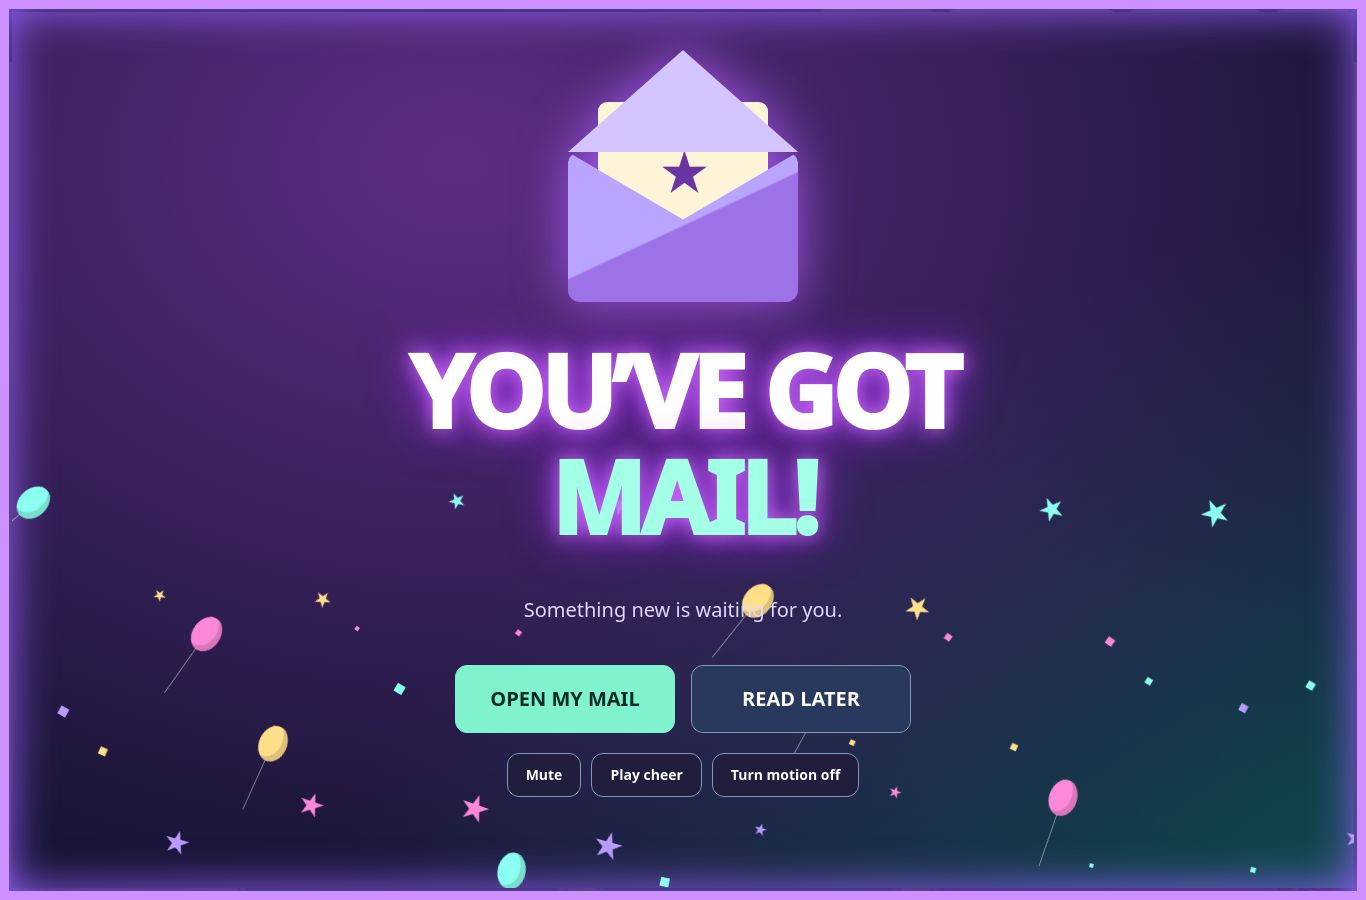
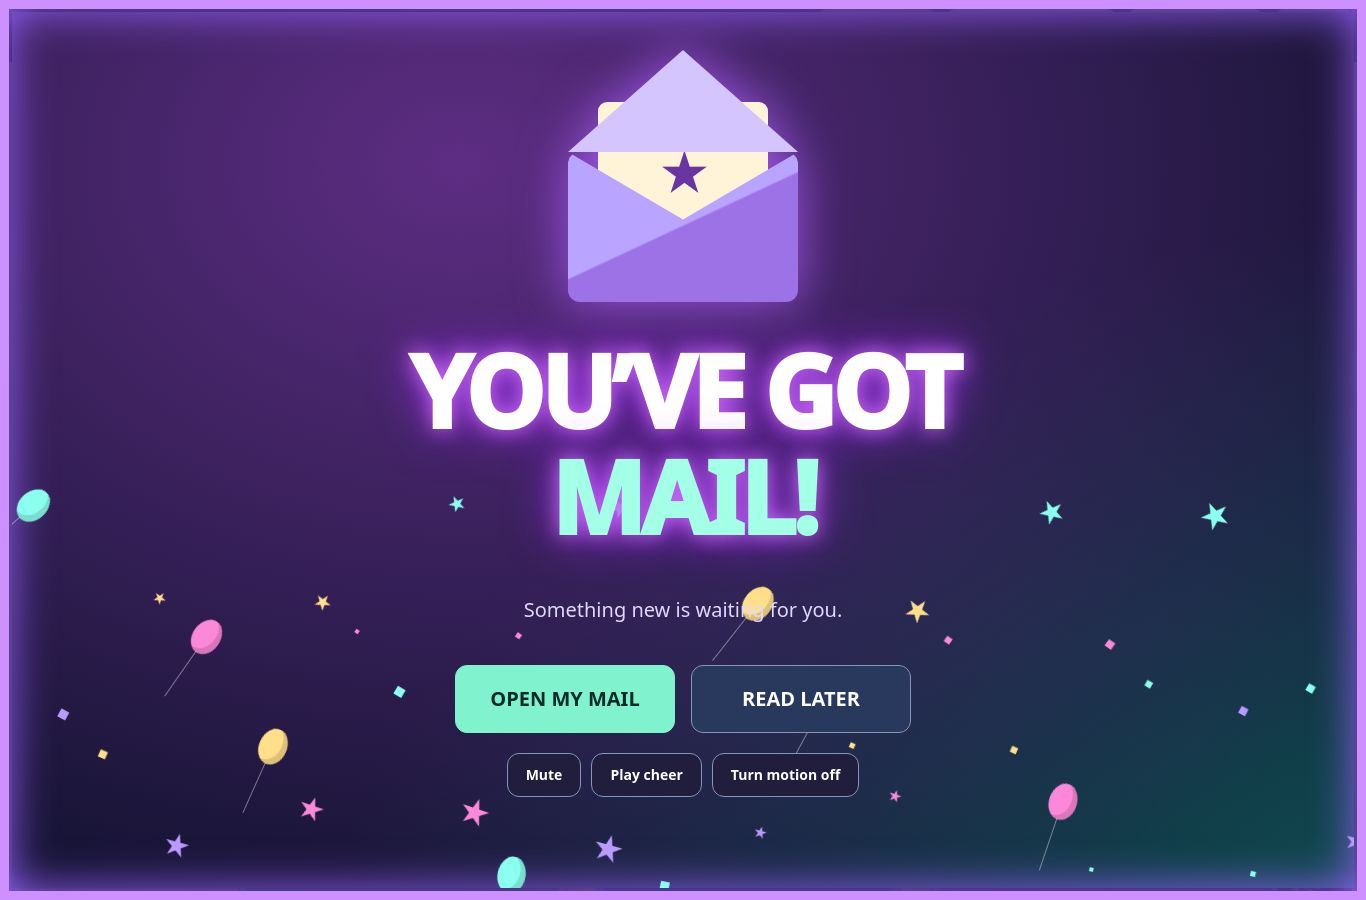
Preserve Read Later acknowledgement through connection failures

diff --git a/assets/employment/client.js b/assets/employment/client.js
@@ -4,7 +4,7 @@ const ROOT=new URL('../../',document.currentScript.src),API='https://tyzpophjopt
 const C=TTEmploymentCore,Q=TTInterviewQuestions,KEY='ttPrivateEmploymentSession',esc=s=>String(s??'').replace(/[&<>"']/g,c=>({'&':'&amp;','<':'&lt;','>':'&gt;','"':'&quot;',"'":'&#39;'}[c]));
 const $=id=>document.getElementById(id),name=()=>sessionStorage.getItem('ttCurrent')||'',canon=()=>C.canonical(name());
 const load=(store,key,fallback)=>{try{return JSON.parse(store.getItem(key)||'null')||fallback}catch{return fallback}};
-let teacherSyncing=false,teacherSent=new Set();
+let teacherSyncing=false,teacherSent=new Set(),ackWorking=false;
 let session=load(sessionStorage,KEY,null),mail=[],modal=null,party=null,working=false,scanning=false,seen=new Set(),registered=new Set(),identity=name(),editor=null,dirty=false,teacherData=null,audio=null,available=null,generation=0;
 let muted=localStorage.getItem('ttMailMuted')==='true',still=localStorage.getItem('ttMailStill')==='true';
 const auth=()=>load(sessionStorage,'ttMonitorPinAuth',null)?.token;
@@ -33,9 +33,19 @@ async function connect(){
  $('ttMailConnect').onclick=async()=>{const n=name();$('ttMailConnect').disabled=true;try{const d=await call('pair',{student:C.canonical(n)});if(n!==name())return;session={name:n,token:d.token,pair:d.pair_code,id:d.device_id};sessionStorage.setItem(KEY,JSON.stringify(session));await openMailbox();}catch(e){error(e);if($('ttMailConnect'))$('ttMailConnect').disabled=false;}};
 }
 function drawWaiting(message){show('Private mailbox',`<p class="tt-eyebrow">${esc(name())}</p><h1>Waiting for Miss Kayla</h1><p>Show her this pairing code and ask her to connect this student device in Live Classroom Monitor.</p><h1>${esc(session?.pair||'')}</h1><p>${esc(message)}</p><button id="ttMailRetry" class="tt-primary">Check connection</button><button id="ttMailReset">Request a new connection</button>`);$('ttMailRetry').onclick=openMailbox;$('ttMailReset').onclick=()=>{sessionStorage.removeItem(KEY);session=null;connect();};}
-async function loadMail(){const g=generation,n=name();let all=[],after='';do{const d=await call('list',{after});if(g!==generation||n!==name())throw Error('Student changed. Open your own mailbox.');applyEmployment(d.applications||[]);all.push(...d.mail);after=d.next||'';}while(after);mail=all.sort((a,b)=>Date.parse(b.created_at)-Date.parse(a.created_at));updateLaunch();return mail;}
+async function loadMail(){await flushAcks();const g=generation,n=name();let all=[],after='';do{const d=await call('list',{after});if(g!==generation||n!==name())throw Error('Student changed. Open your own mailbox.');applyEmployment(d.applications||[]);all.push(...d.mail);after=d.next||'';}while(after);mail=all.sort((a,b)=>Date.parse(b.created_at)-Date.parse(a.created_at));const pending=load(localStorage,ackKey(),{});mail.forEach(m=>{if(Object.hasOwn(pending,m.id)){m.acknowledged_at||=new Date().toISOString();if(pending[m.id])m.read_at||=m.acknowledged_at;}});updateLaunch();return mail;}
 function updateLaunch(){const local=document.querySelector('button[onclick="mailbox()"]');if(local)local.textContent=session?'📬 Mail · '+mail.filter(m=>!m.read_at).length+' unread':'📬 Mail · Connect';const b=$('ttMailLaunch');if(b)b.textContent='✉ My Mail'+(mail.filter(m=>!m.read_at).length?' · '+mail.filter(m=>!m.read_at).length:'');}
-async function ack(ids,read=false){for(let n=0;n<ids.length;n+=100)await call(read?'read':'ack',{ids:ids.slice(n,n+100)});const now=new Date().toISOString();mail.forEach(m=>{if(ids.includes(m.id)){m.acknowledged_at=now;if(read)m.read_at=now;}});}
+const ackKey=()=> 'ttMailAcknowledgements:'+C.hash(canon());
+async function flushAcks(){
+ if(ackWorking||!session||session.name!==name())return;ackWorking=true;const key=ackKey(),g=generation;
+ try{const pending=load(localStorage,key,{});for(const read of [false,true]){const ids=Object.keys(pending).filter(id=>pending[id]===read);for(let n=0;n<ids.length;n+=100){if(g!==generation)return;const batch=ids.slice(n,n+100);await call(read?'read':'ack',{ids:batch});const current=load(localStorage,key,{});for(const id of batch)if(current[id]===read)delete current[id];localStorage.setItem(key,JSON.stringify(current));}}}finally{ackWorking=false;}
+}
+async function ack(ids,read=false){
+ const key=ackKey(),pending=load(localStorage,key,{});for(const id of ids)pending[id]=read||pending[id]===true;
+ // Only opaque message IDs and read flags are queued; no names, message bodies or answers.
+ localStorage.setItem(key,JSON.stringify(pending));const now=new Date().toISOString();mail.forEach(m=>{if(ids.includes(m.id)){m.acknowledged_at=now;if(read)m.read_at=now;}});updateLaunch();
+ flushAcks().catch(()=>{});
+}
 async function openMailbox(){
  if(!session||session.name!==name())return connect();
  try{await loadMail();await scan();await loadMail();editor=null;dirty=false;

diff --git a/docs/employment/QA.md b/docs/employment/QA.md
@@ -6,6 +6,7 @@ All fixtures are fictional. No live student rows were read, changed, or used in 
 
 - **114 new assertions** using the actual classroom Edge handler and the proposed SQL in PostgreSQL/PGlite: application receipts, invitation/decision transactions, exact retry handling, account isolation, unapproved/expired/revoked devices, ordinary classroom-token rejection, partial answers, completion, separate-device resume, stale concurrent saves/decisions, second-round history, broadcasts, phone-to-mail routing, repeat billing cycles, all 21 question sets and direct-table/RPC denial for anonymous/authenticated clients.
 - **Actual browser workflow:** submitted the existing grocery Cashier application; approved a fictional mailbox device; requested an interview from the existing Central Hub; received the full-screen celebration; selected READ LATER (message stayed unread; no repeated celebration); opened the invitation; used typed and supported answers; saved and resumed on a separate browser storage context; submitted ten answers; reviewed actual responses on the teacher dashboard; hired the student; received the decision; logged out through the real Town logout hook; paired again and recovered the saved decision and Cashier employment entry.
+- A failed acknowledgement connection still let READ LATER close, preserved the unread message, and retried the acknowledgement without repeating the celebration.
 - A simulated lost network response **after the database saved** preserved the on-screen answer and reused the original command on retry, without a second write.
 - Another fictional student's mailbox remained empty. Separate-browser tests use independent Chromium contexts, not copied cookies/localStorage.
 - Native dialog keyboard navigation, Enter to OPEN MY MAIL, reduced motion, desktop and 390px phone screenshots, and unchanged checking/savings balances passed. No unhandled page errors in the final browser run.

diff --git a/docs/employment/README.md b/docs/employment/README.md
@@ -14,7 +14,7 @@ Only the service role can read/write the new tables or execute the command RPC. 
 
 **Why extra pairing is necessary:** current Town sign-in is a name selector, and classroom tokens may be restored from localStorage. Neither alone proves who is using a shared computer. Private mail must not become accessible merely by choosing another name. Existing locally stored Town records are retained, not converted into a security boundary. This PR does not claim to secure copies of legacy data already stored on classroom devices.
 
-Teacher decisions, invitation rounds, legacy status updates, mailbox delivery, and command receipts commit in one PostgreSQL transaction. Unique event keys prevent duplicate mail; command IDs recover a lost-response retry; revisions reject stale writes. Reading and acknowledging the celebration are separate operations. READ LATER acknowledges the celebration but leaves the message unread.
+Teacher decisions, invitation rounds, legacy status updates, mailbox delivery, and command receipts commit in one PostgreSQL transaction. Unique event keys prevent duplicate mail; command IDs recover a lost-response retry; revisions reject stale writes. Reading and acknowledging the celebration are separate operations. READ LATER acknowledges the celebration but leaves the message unread. A small local retry queue stores only opaque message IDs/read flags (no names, bodies, or answers), so Read Later can close even when the acknowledgement connection fails; the acknowledgement syncs when that device reconnects.
 
 ## Included experience
 
